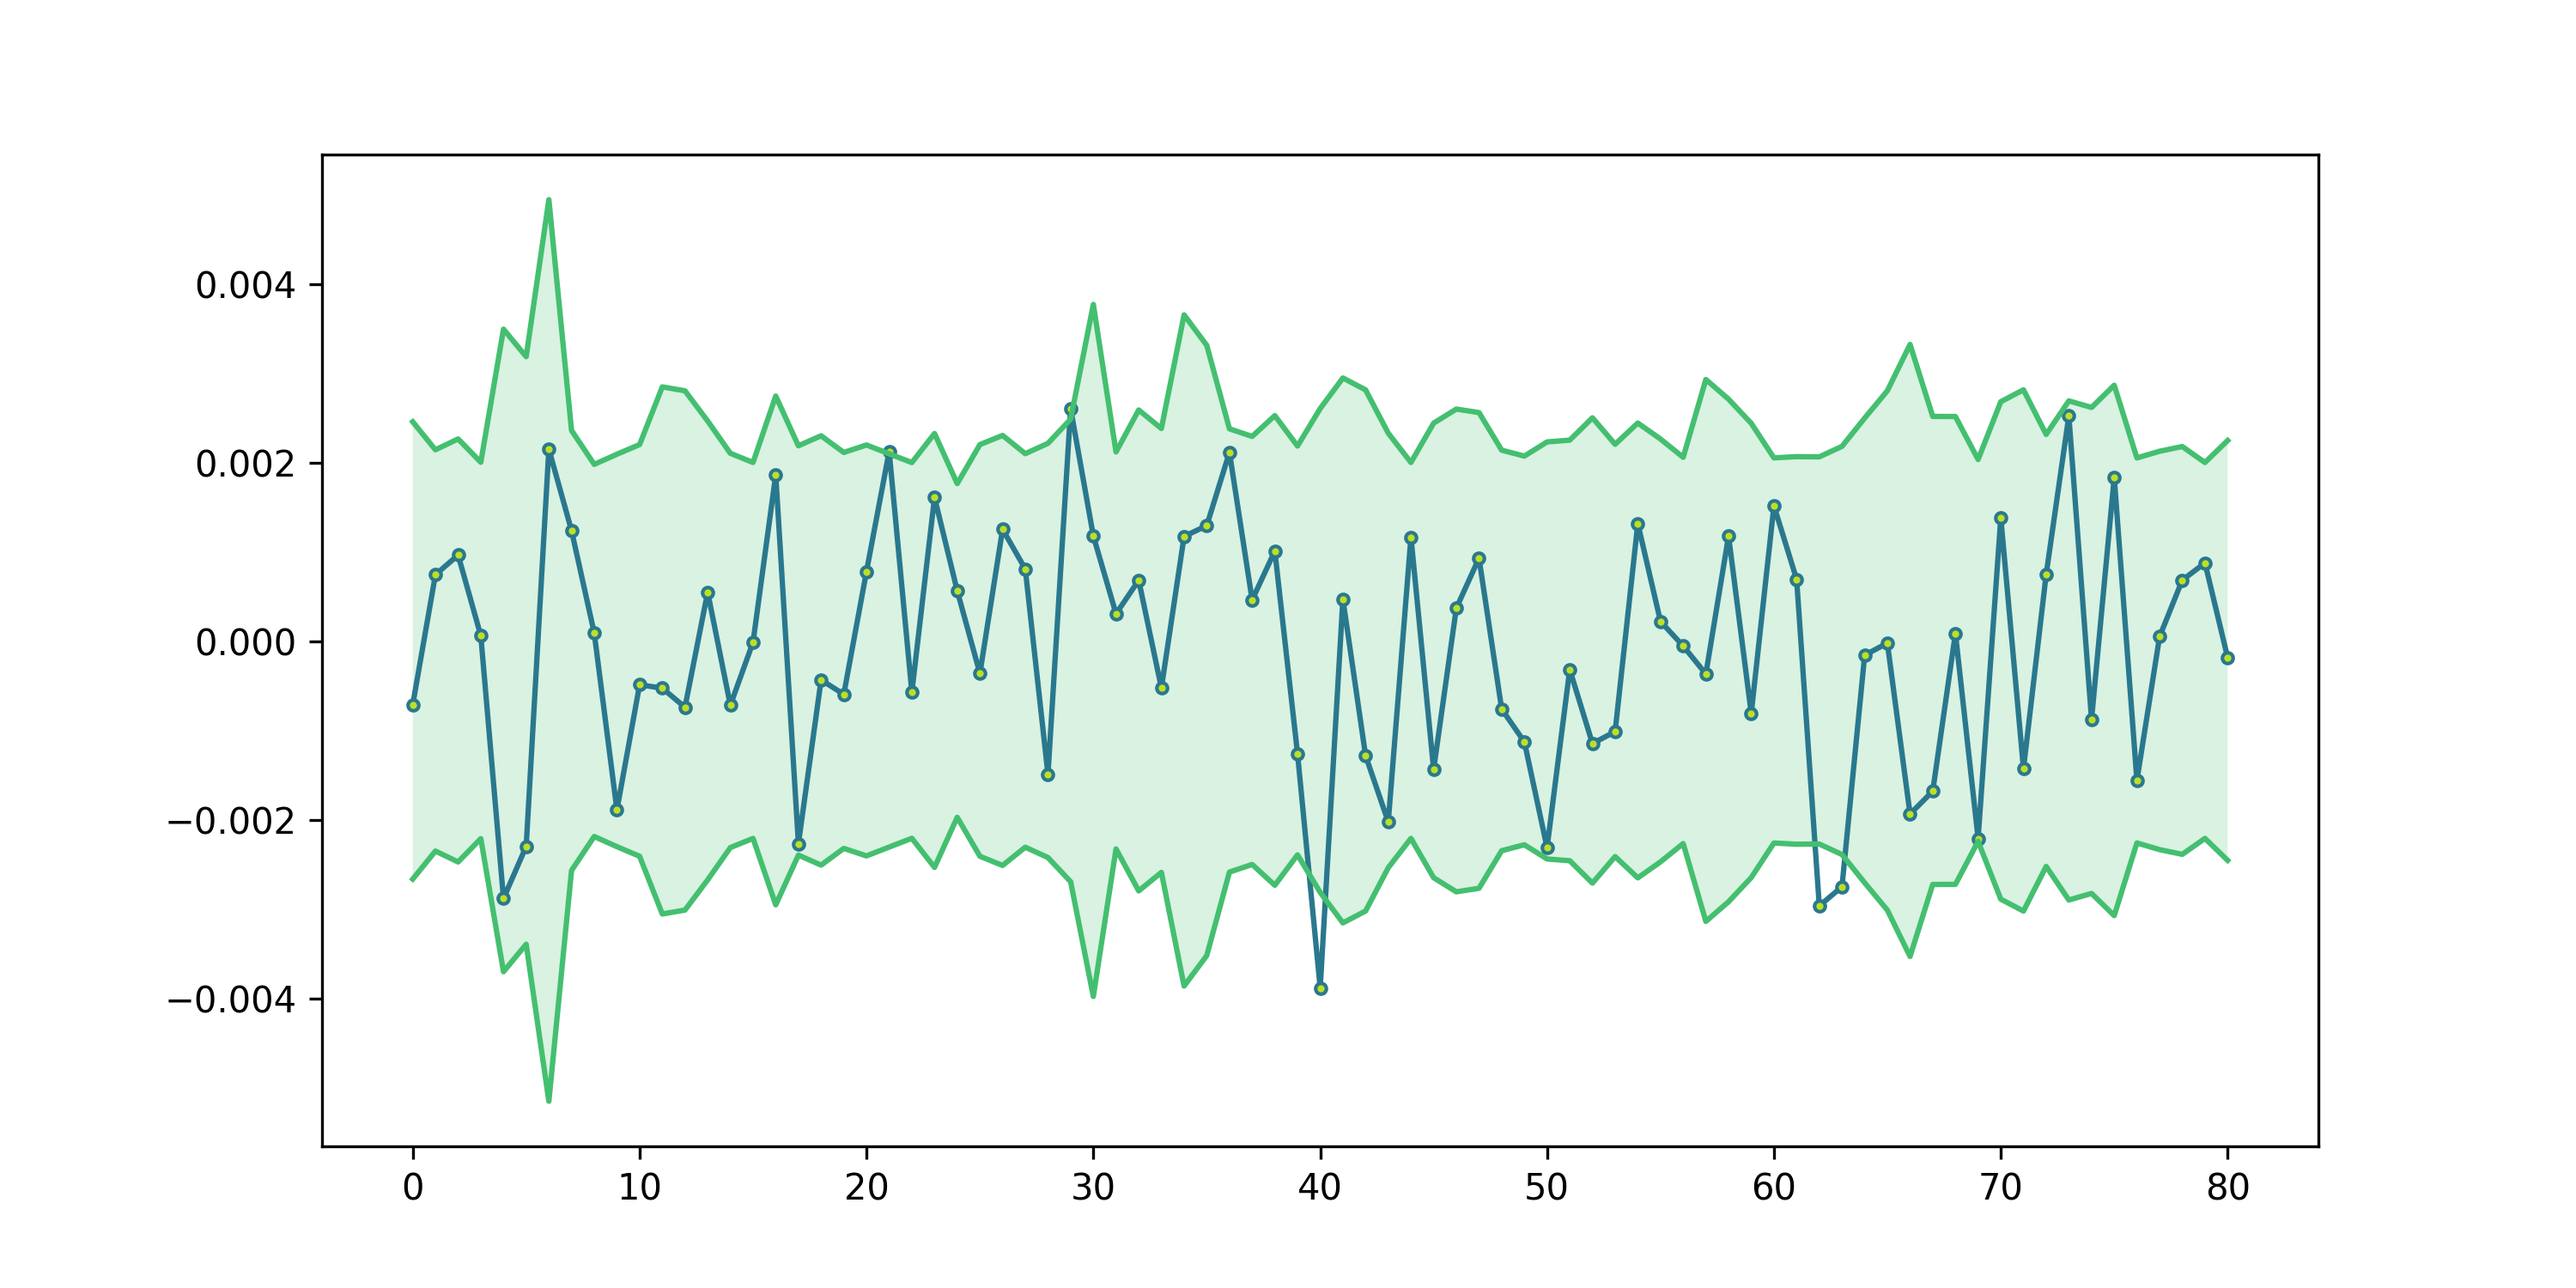
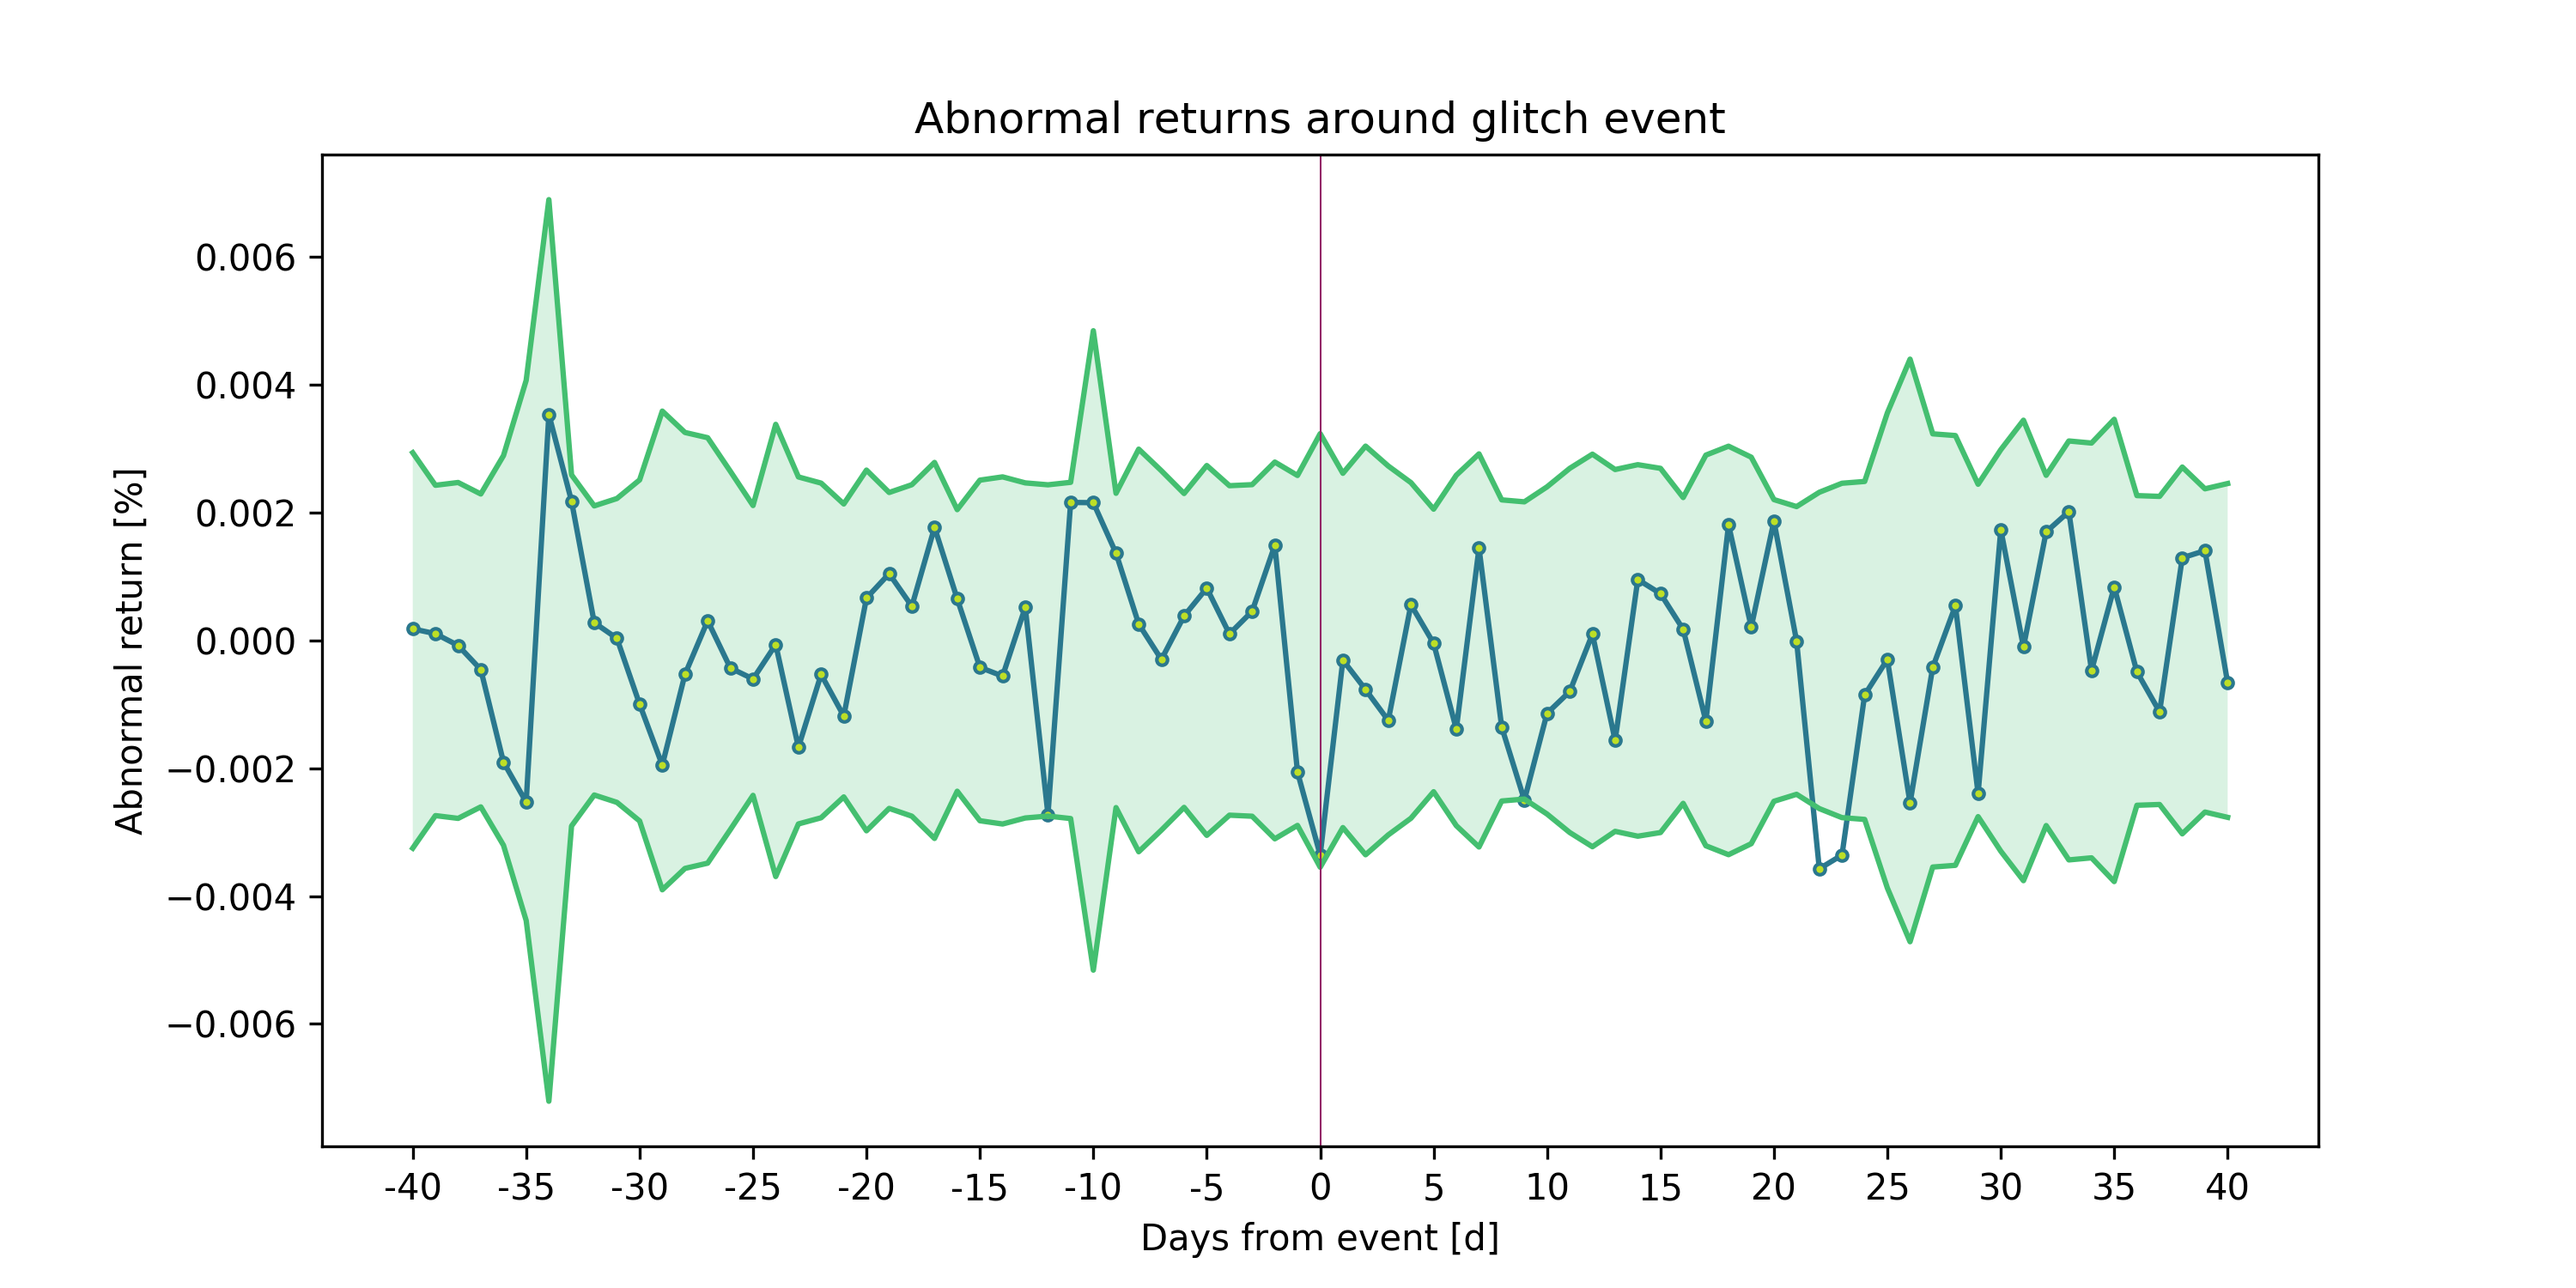
Final Results

diff --git a/analytics.py b/analytics.py
@@ -38,32 +38,38 @@ def stretch(arr):
     return [arr[0]] * 10 + [arr[1]] * 5 + [arr[2]] * 5
 
 
-def abnormal_analytics(abnormal_returns):
-
+def abnormal_analytics(abnormal_returns, fig_name='returns.pdf', fig_title='Abnormal returns around glitch event'):
+    print('*'*100)
+    print(fig_title)
     sufficient_idx = []
     sufficient_ar = []
-    p_threshold = 0.1
+    p_threshold = 0.05
     for i, ar in enumerate(abnormal_returns):
         if ar[-1][3][1] <= p_threshold:
             sufficient_idx.append(i)
             sufficient_ar.append(ar)
 
-    print('N sufficient P:', len(sufficient_ar))
+    # print('N sufficient P:', len(sufficient_ar))
 
     tickers = [r[1] for r in sufficient_ar]
     returns = np.array([r[0] for r in sufficient_ar])
     returns_event = [r[19] for r in returns]
     dates = [r[2] for r in sufficient_ar]
     mean_return_days = np.mean(returns, axis=0)
-    #print(mean_return_days)
-    std_return_days = np.std(returns, axis=0)
 
-    upper = mean_return_days + std_return_days
-    lower = mean_return_days - std_return_days
+    mean_return_days *= 100
 
-    print(std_return_days)
-    print(mean_return_days)
     m, lower, upper = mean_confidence_interval(returns)
+    n_days = len(mean_return_days)
+    event_index = n_days // 2
+
+    time_axis = range(-int((n_days-1)/2), int((n_days-1)/2 + 1))
+
+    car_11 = np.sum(mean_return_days[event_index-5:event_index+6])
+    car_2 = np.sum(mean_return_days[event_index-1:event_index+1])
+
+    print('CAR -5/5:', round(car_11, 2))
+    print('CAR -1/0:', round(car_2, 2))
 
     fig = plt.figure(figsize=(10,5))
     ax = fig.add_subplot(111)
@@ -71,26 +77,20 @@ def abnormal_analytics(abnormal_returns):
     ax.plot(mean_return_days, color=plt.cm.viridis(0.4), marker='.', mfc=plt.cm.viridis(0.9))
     ax.plot(lower, color=plt.cm.viridis(0.7))
     ax.plot(upper, color=plt.cm.viridis(0.7))
+    ax.axvline(x=event_index, color=plt.cm.inferno(0.4), lw=0.5)
+    ax.set_xticks(range(0,n_days,5))
+    ax.set_xticklabels(time_axis[::5])
 
-    # ax.scatter([20]*len(returns_event), returns_event)
+    ax.set_xlabel('Days from event [d]')
+    ax.set_ylabel('Abnormal return [%]')
+    ax.set_title(fig_title)
+    fig.savefig(fig_name, dpi=300)
 
-    # ax.plot(moving_average(mean_return_days, n=3))
-    #ax.plot(upper)
-    #ax.plot(lower)
-    """
-    for ret in returns:
-        ax.plot(ret, color='black', lw=0.2)
 
-    ax.plot(mean_return_days, color='red')
-    ax.plot(mean_return_days + std_return_days, color='blue')
-    ax.plot(mean_return_days - std_return_days, color='blue')
-    # ax.set_ylim([-0.1, 0.1])
-    """
-    fig.savefig('returns.png', dpi=300)
 
 
 def mean_confidence_interval(data, confidence=0.95):
-    a = 1.0 * np.array(data)
+    a = 100.0 * np.array(data)
     n = len(a)
     m, se = np.mean(a), scipy.stats.sem(a)
     h = se * scipy.stats.t.ppf((1 + confidence) / 2., n - 1)

diff --git a/glitchData.py b/glitchData.py
@@ -14,9 +14,11 @@ class GlitchData:
 
         print(self.glitches)
 
+        raise NotImplementedError
+
 
 class Companies:
-    def __init__(self, fn='data/data.xlsx', randomized=False):
+    def __init__(self, fn_mapping='data/data.xlsx', fn_glitches='data/data.xlsx', randomized=False):
         if not randomized:
             excluded_categories = ['Banks',
                                    'Financial Services',
@@ -25,17 +27,20 @@ class Companies:
                                    'Software',
                                    'Telecommunication']
 
-            self.prime = pd.read_excel(fn, sheet_name='Prime Standard', header=7)
+            self.prime = pd.read_excel(fn_mapping, sheet_name='Prime Standard', header=7)
             self.prime = self.prime[~self.prime['Sector'].isin(excluded_categories)]
-            self.general = pd.read_excel(fn, sheet_name='General Standard', header=7)
+            self.general = pd.read_excel(fn_mapping, sheet_name='General Standard', header=7)
             self.general = self.general[~self.general['Sector'].isin(excluded_categories)]
 
             self.tickers_prime = list(self.prime['Trading Symbol'].unique())
             self.tickers_general = list(self.general['Trading Symbol'].unique())
             self.tickers_general = [t for t in self.tickers_general if t != 'n.a']
 
-            self.glitches = pd.read_excel(fn, sheet_name='Störungen', header=2)
-            self.glitches = self.glitches.dropna(subset=['Relevant?'])
+            self.glitches = pd.read_excel(fn_glitches, sheet_name='Störungen', header=2)
+            try:
+                self.glitches = self.glitches.dropna(subset=['Relevant?'])
+            except KeyError:
+                pass
 
             self.glitches = self.glitches[(self.glitches['Datum'] >= '2007-03-01')
                                           & (self.glitches['Datum'] <= '2018-10-01')]

diff --git a/stockData.py b/stockData.py
@@ -71,6 +71,7 @@ class StockData:
 
     def extractWindows(self, filter, window=40):
         windows = []
+        glitches = []
         for index, glitch in filter.iterrows():
             try:
                 stock_data = self.ticker2data(glitch['Trading'])
@@ -98,32 +99,8 @@ class StockData:
             isna = window_data.isnull().values.any()
             if not isna:
                 windows.append(window_data)
-        return windows
-
-    def abnormal_return_pct(self, windows):
-        abnormal_returns = []
-        for window in windows[:]:
-            ticker = list(window.columns)[-1]
-            event_dates = list(window['Date'])
-            stock_data = self.ticker2data(ticker)
-            max_date = max(window['Date'])
-
-            stock_history = stock_data[(stock_data['Date'] <= max_date)].dropna(how='any')
-            stock_history = stock_history.iloc[-21:, 1]
-            stock_history_pct = stock_history.pct_change()
-            shp_array = np.array(stock_history_pct)[1:]
-            m1 = np.median(shp_array[:10])
-            s1 = np.std(shp_array[:10])
-
-            m2 = np.median(shp_array[10:15])
-            s2 = np.std(shp_array[10:15])
-
-            m3 = np.median(shp_array[15:])
-            s3 = np.std(shp_array[15:])
-
-            package = [[m1, m2, m3], [s1, s2, s3]]
-            abnormal_returns.append(package)
-        return abnormal_returns
+                glitches.append(glitch)
+        return windows, glitches
 
     def abnormal_return(self, windows):
         abnormal_returns = []

diff --git a/main.py b/main.py
@@ -1,22 +1,37 @@
-from glitchData import GlitchData, Companies
+from glitchData import Companies
 from stockData import quandl_data, StockData
-from analytics import abnormal_analytics, abnormal_analytics_pct
+from analytics import abnormal_analytics
 
 
 def main():
     print('Initializing')
-    companies = Companies()
+    fn_glitches = 'data/Glitches_all.xlsx'
+    companies = Companies(fn_glitches=fn_glitches)
     stocks = StockData()
 
     n_rand = 10
     # companies_random = [Companies(randomized=companies) for _ in range(n_rand)]
 
     print('Building Event windows...')
-    windows = stocks.extractWindows(companies.glitches)
+    windows, glitches = stocks.extractWindows(companies.glitches)
     print('Calculating abnormal returns...')
     abnormal_returns = stocks.abnormal_return(windows)
 
-    abnormal_analytics(abnormal_returns)
+    # abnormal_analytics(abnormal_returns)
+
+    categories = ['Sector', 'Ursache', 'Grund (Art der Störung)', 'Verantwortlich (Quelle)']
+    for cat in categories:
+        values = set([g[cat] for g in glitches])
+        values = {v: [] for v in values}
+        print(values)
+        for i, g in enumerate(glitches):
+            values[g[cat]].append(abnormal_returns[i])
+
+        for v, r in values.items():
+            fig_name = ('returns_' + cat + '_' + v + '.pdf').replace('/', '-')
+            fig_title = 'Abnormal returns around glitch event (' + cat + ': ' + v + ')'
+            abnormal_analytics(r, fig_name, fig_title)
+
 
 
 
